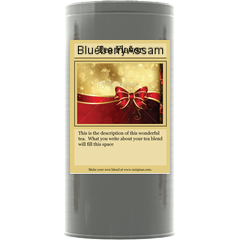
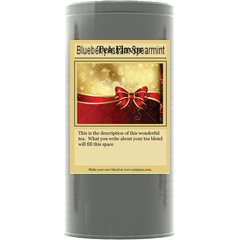
fixes

Changed region(s): [[0.3208, 0.175, 0.7, 0.2333]]

diff --git a/lib/paperclip_processors/label_image_processor.rb b/lib/paperclip_processors/label_image_processor.rb
@@ -5,9 +5,9 @@ module Paperclip
     def initialize file, options = {}, attachment = nil
       super
       geometry          = options[:geometry]
-      @file             = file
-      @target_geometry  = Geometry.parse geometry
-      @current_geometry = Geometry.from_file @file
+      @file             = file      
+      @target_geometry  = (options[:string_geometry_parser] || Geometry).parse(geometry)
+      @current_geometry = (options[:file_geometry_parser] || Geometry).from_file(@file)
       @whiny            = options[:whiny].nil? ? true : options[:whiny]
       @format           = options[:format]
       @current_format   = File.extname(@file.path)
@@ -48,16 +48,20 @@ module Paperclip
       
       command = "convert"
       params = "-background none -fill black -font Arial -pointsize 12 label:\"#{name}\" #{tofile(textImg)}"
-
+      begin
         success = Paperclip.run(command, params)
-
+      rescue Cocaine::CommandLineError => ex
+        raise PaperclipError, "There was an error creating the text image for Name" if @whiny
+      end
       
       # now composite text onto dst
       command = "composite"
       params = "-geometry 89x14!+76+43 #{tofile(textImg)} #{tofile(comp)} #{tofile(dst)}"
-
+      begin
         success = Paperclip.run(command, params)
-
+      rescue Cocaine::CommandLineError => ex
+        raise PaperclipError, "There was an error processing the final composite for #{@basename} with params #{params}" if @whiny
+      end
       
       dst
     end

diff --git a/db/schema.rb b/db/schema.rb
@@ -371,6 +371,16 @@ ActiveRecord::Schema.define(:version => 20130320101800) do
     t.datetime "updated_at",     :null => false
   end
 
+  create_table "spree_product_packages", :force => true do |t|
+    t.integer  "product_id",                :null => false
+    t.integer  "length",     :default => 0, :null => false
+    t.integer  "width",      :default => 0, :null => false
+    t.integer  "height",     :default => 0, :null => false
+    t.integer  "weight",     :default => 0, :null => false
+    t.datetime "created_at",                :null => false
+    t.datetime "updated_at",                :null => false
+  end
+
   create_table "spree_product_properties", :force => true do |t|
     t.string   "value"
     t.integer  "product_id"

diff --git a/db/migrate/20130107030221_create_product_packages.rb b/db/migrate/20130107030221_create_product_packages.rb
@@ -1,0 +1,12 @@
+class CreateProductPackages < ActiveRecord::Migration
+  def change
+    create_table :spree_product_packages do |t|
+      t.integer "product_id", :null => false
+      t.integer "length", :default => 0, :null => false
+      t.integer "width", :default => 0, :null => false
+      t.integer "height", :default => 0, :null => false
+      t.integer "weight", :default => 0, :null => false
+      t.timestamps
+    end
+  end
+end

diff --git a/app/models/spree/label_template.rb b/app/models/spree/label_template.rb
@@ -1,6 +1,5 @@
 class Spree::LabelTemplate < ActiveRecord::Base
   attr_accessible :group, :name, :label_image
-  has_many :product_label
   has_attached_file :label_image,
                     :processors => [:label_image_processor, :thumbnail],
                     :styles => { 
